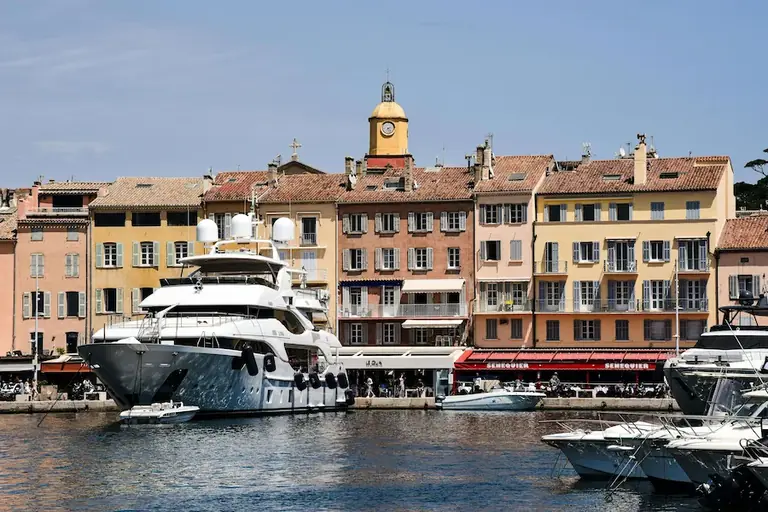
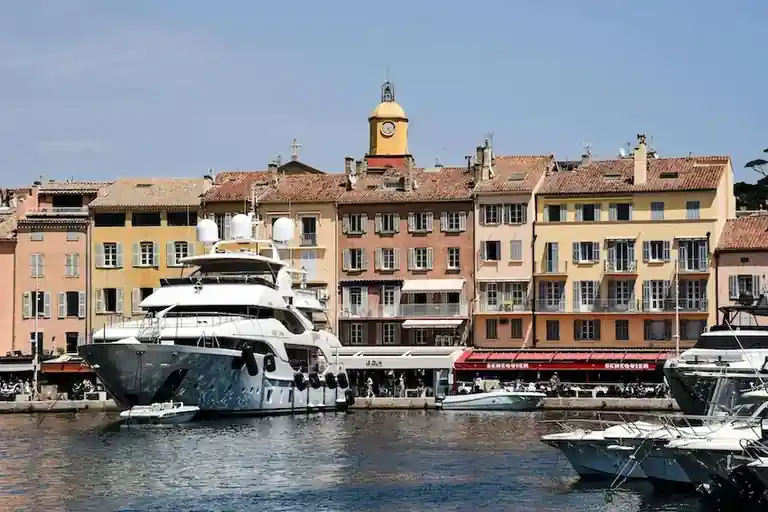
perf: compress hero images (-33% desktop, mobile optimisé)

diff --git a/index.html b/index.html
@@ -54,10 +54,21 @@
     <link rel="preload" as="image" href="assets/images/port-saint-tropez.webp" type="image/webp" fetchpriority="high"
         imagesrcset="assets/images/port-saint-tropez-mobile.webp 768w, assets/images/port-saint-tropez.webp 900w"
         imagesizes="(max-width:768px) 768px, 900px" />
+
+    <!-- Critiques au premier rendu → restent bloquants -->
     <link rel="stylesheet" href="css/global.css" />
     <link rel="stylesheet" href="css/index.css" />
-    <link rel="stylesheet" href="css/cookies.css" />
-    <link rel="stylesheet" href="css/fonts-local.css" />
+
+    <!-- Non critiques → déférés -->
+    <link rel="stylesheet" href="css/fonts-local.css" media="print" onload="this.media='all'">
+    <noscript>
+        <link rel="stylesheet" href="css/fonts-local.css">
+    </noscript>
+
+    <link rel="stylesheet" href="css/cookies.css" media="print" onload="this.media='all'">
+    <noscript>
+        <link rel="stylesheet" href="css/cookies.css">
+    </noscript>
 </head>
 
 <body>

diff --git a/refonte-site-internet.html b/refonte-site-internet.html
@@ -564,7 +564,8 @@
                         des meilleurs établissements de la région. Un design vieilli communique un message silencieux :
                         <strong>manque de soin, manque de modernité</strong>. La refonte repart de zéro — identité
                         visuelle cohérente, typographie soignée, photographies mises en valeur. Résultat : votre site
-                        impose le même prestige que votre activité.</p>
+                        impose le même prestige que votre activité.
+                    </p>
                 </article>
 
                 <!-- H2 #2 — Vitesse de chargement -->
